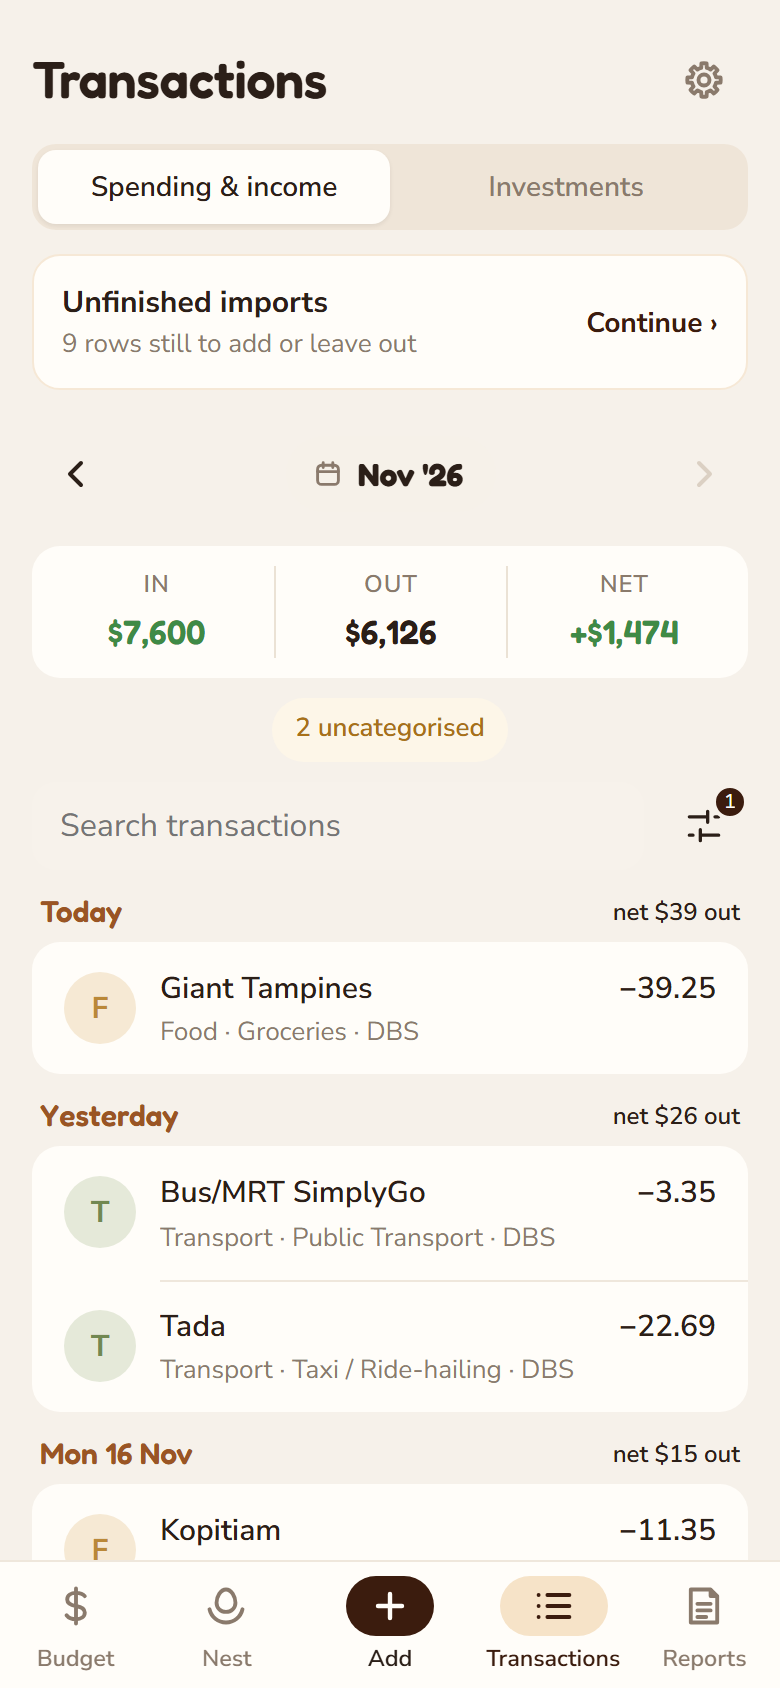
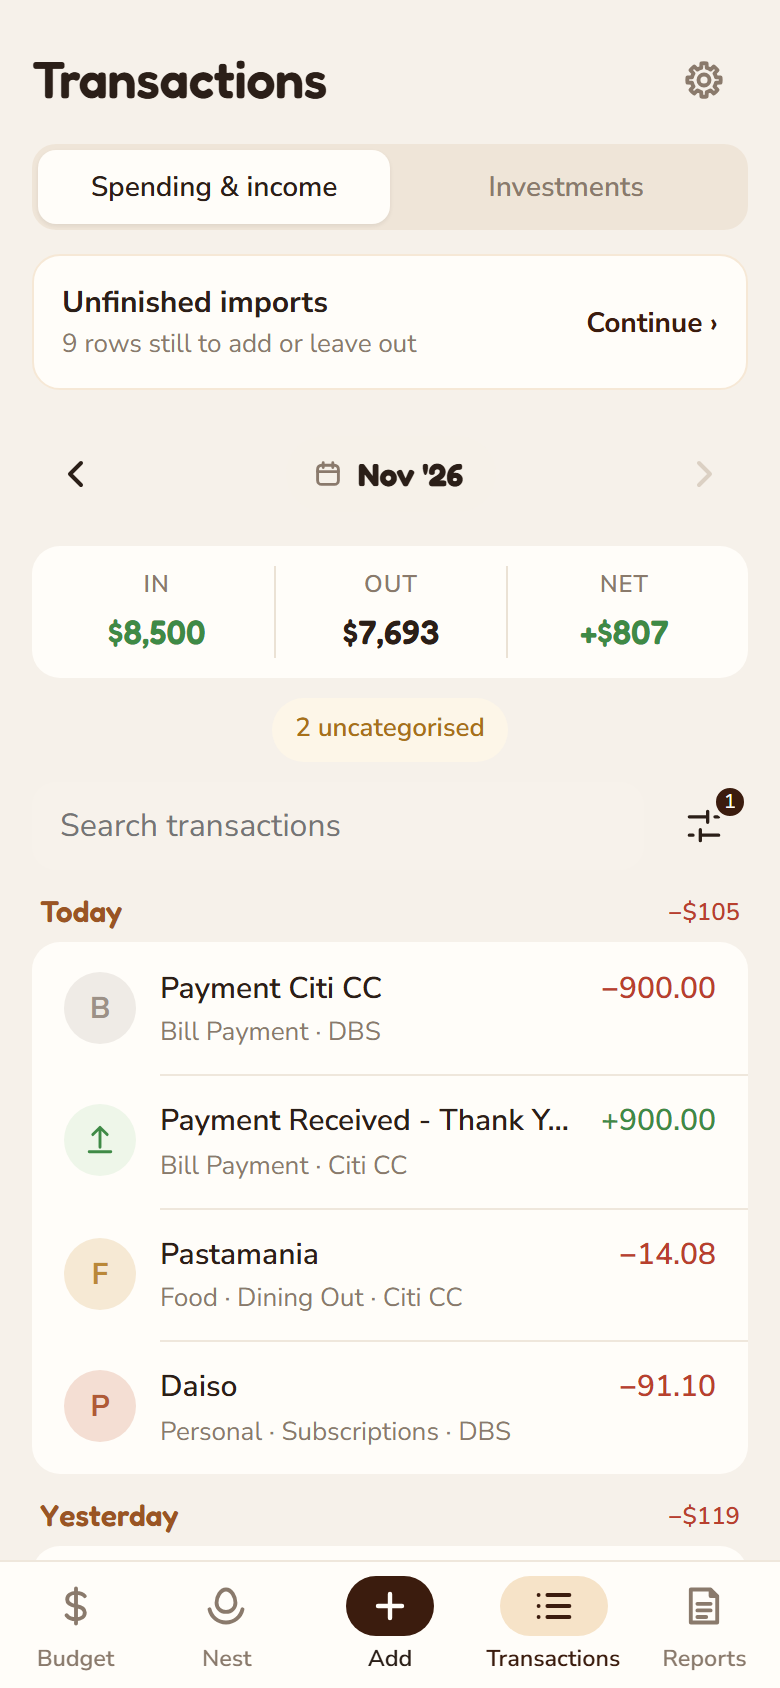
Themes, coloured Transactions amounts, new screenshots, download links to 0.1.229

diff --git a/guide-android.html b/guide-android.html
@@ -103,7 +103,7 @@
       <li><b>Budget</b>: Ready to place, with your money age under it, then your <b>Groups</b> in one card (with the month's total left beside the heading): each group with what's left and a line like <b>$1,540 spent of $3,400</b> with a thin bar in the group's colour (it turns red when a group is over). Groups whose money goes to your own savings, investment, insurance or CPF accounts say <b>$900 saved · $500 to go</b> instead, because that money is still yours. <b>Show empty categories</b> sits under the card. To change the order, hold a group until the phone buzzes, then drag it; in a group's summary, hold a category to move it within the group. Looking back at what you placed against what you spent, month by month, is <b>Placed vs Spent</b> on the desktop. Tap a group for its summary and its categories, each with what it spent and what's left; tap a category there to change what's placed or move money. A pooled group's sheet also lists what was spent in each category. A category with a savings goal shows its stage (<b>Warming · saving $1,350 of $3,000</b>); its sheet has the goal, <b>Place</b> for this month and <b>Change goal</b>, and <b>Set a savings goal</b> on any category. <b>Savings goals first</b> lists every goal at the top of Budget; tap one to open it. Swipe the month bar left or right to change month, or tap the month to jump with the month and year wheels.</li>
       <li><b>Nest</b>: your net worth and how it changed (under it, when the prices are from, and <b>Refresh</b> to fetch new ones), then a card for each reason it changed, in the same order (tap a reason under your net worth to jump to its card): <b>Kept From What Came In</b>: what came in less what went out, the same savings rate as Reports (<b>How it's worked out</b> under it shows the sum); <b>Investments grew on their own</b>, from what your broker accounts held at the start, plus what you put in, to today, with your biggest holdings, <b>All holdings and how they did</b> and <b>Count my eggs</b>; and <b>CPF added on its own</b>, split into your pay, interest, your home and the rest. Under <b>Where It Sits</b>, each group (<b>Cash</b>, <b>Savings &amp; Investments</b>, <b>What You Owe</b>) is one line with its total, its change and how many accounts it has; tap a group to open it, and tap again to fold it. Anything that opens right there points down or says <b>Show</b>; places that take you to another page sit together at the end of a group or an account, each with a ›. <b>Change these accounts in Settings</b> at the end of a group goes to where accounts are set up. A credit card left owing after its bill says <b>Carried since</b> the month it started. The phone remembers which groups you leave open. Inside, each account is one line; a second line shows only when something needs you, like a count that's due or a debt's terms. Tap an account for its change over the period, what it holds (holdings at today's prices, cash, and what you put in, one line each), its last 12 months, and its settings. Closed accounts with nothing left in them aren't shown. Under your net worth, <b>things to check</b> shows only when some money isn't counted: a card or bank whose transactions aren't in your Nest, a transfer that went nowhere, card bills missing from a card, a closed account with money left (not a closed investment account whose trades sold everything: what didn't come back is its gain or loss), or a bank, savings or cash account that went below zero, open or closed (money came in that isn't recorded, most often interest). Tap it for the list; each has its fix (<b>Add it as interest</b> adds one Interest row for how far below it went; <b>It was wrong from the start</b> raises its starting balance; <b>It really was overdrawn</b> unflags it, listed under <b>Your choices</b> with <b>Check it again</b>; <b>Set up as a credit card</b> asks what you owe on it today; <b>It's a bank account</b> asks its balance today; <b>Don't keep a balance for it</b> leaves it out on purpose, and <b>Track it again</b> undoes that). <b>How they did and what you hold</b> opens your investments; under today's figure it says when the prices are from, and <b>Refresh</b> fetches new ones. After those cards, groups of accounts you made on the computer show under <b>Your Groups</b>, each with its worth, what you put in and what grew on its own; tap one for its chart and figures.</li>
       <li><b>Add</b>, the round button in the middle: log <b>Spending or income</b>, an <b>Investment</b> or <b>Crypto</b> (both open <b>Add an investment</b>, for shares, funds and coins alike: pick a tab, <b>Trade</b>, <b>Earn</b>, <b>Transfer</b> or <b>Adjust</b>, then what happened from the line of words under it, like <b>Bought · Sold · Swap · Option · Fee</b>. That day's close fills in; in a <b>Swap</b> type any two of the amounts and the rate and the third is worked out. For <b>Earn › Cash</b>, tap <b>Paid on</b>: <b>What Paid You?</b> lists what you hold there, grouped by how it will be saved (Dividend, Bond coupon, Interest, Bonus or promotion), and the box shows <b>Saved as</b>. <b>Add</b> stays at the bottom, with <b>How it counts</b> in one line above it, such as <b>Paid US$1,800 for 10 AAPL</b>; <b>See all</b> shows every figure), or <b>Import a statement</b> (see <a href="#import">step 6</a>).</li>
-      <li><b>Transactions</b>: this month's <b>In</b>, <b>Out</b> and <b>Net</b> side by side, then the spending and income, grouped by day with each day's total (like <b>$85 spent</b>); the switch at the top shows your <b>Investments</b> trades instead. Tap a row to edit or split it. Swipe the month bar to see another month; each month loads as you reach it, so the tab opens quickly however many years you've kept. <b>All time</b> on the month picker shows every month at once.</li>
+      <li><b>Transactions</b>: this month's <b>In</b>, <b>Out</b> and <b>Net</b> side by side, then the spending and income, grouped by day with each day's net (like <b>−$85</b>); money out is red and money in is green; the switch at the top shows your <b>Investments</b> trades instead. Tap a row to edit or split it. Swipe the month bar to see another month; each month loads as you reach it, so the tab opens quickly however many years you've kept. <b>All time</b> on the month picker shows every month at once.</li>
       <li><b>Reports</b>: <b>This Month</b> leads with <b>Spent and Kept</b>: of what came in, what you spent and what you kept, with kept split into <b>Moved into your nest</b> and <b>Stayed in cash accounts</b> (money in categories kept out of Spent shows as <b>Other money out</b>), and how that compares with what you usually keep. The computer's Reports Summary says the same figures in the same words. Then the spending card with its <b>Spent · Left</b> switch: what you've spent so far against your usual, or what's left to spend and about how much a day. Then <b>Where It Went</b> (biggest category first, each against its usual), <b>Where Your Savings Went</b> and <b>Out of the Ordinary</b>: new payees and bills bigger than their usual, with why each is there. <b>Trends</b> leads with <b>Spent and Kept, Month by Month</b> (the share kept above each month), then <b>The Months in Figures</b> (came in, spent and kept for each month, and a month on average), <b>So Far This Year</b>, your usual month, each category's last months (with only this month so far, it shows this month "so far"), and <b>How Old Your Money Is</b>: your money age, and again counting savings as still yours. Reports counts transactions up to today. Balance adjustments from Count my eggs aren't spending: Spent and kept says how much there was this month on its own line, with <b>See them</b>. Comparisons say what changed, for example <b>Spent $4,212 more than usual by this point</b> (red) or <b>Spent $1,300 less than usual</b> (green); a category where refunds beat spending shows as money <b>back</b>.</li>
     </ul>
     <figure class="phone"><img src="assets/img/phone-reports-left.png" alt="Reports on the phone, leading with what's left to spend" width="390" height="844" loading="lazy"><figcaption>Reports, set to Left: what's left this month and about how much a day.</figcaption></figure>
@@ -138,6 +138,8 @@
       <li><b>Reports Opens On</b>: This month, or the tab you used last.</li>
       <li><b>Sync</b>: whether the phone is <b>Up to date</b> (and when it last checked), the <b>Last change</b> and which device made it, and the folder your data lives in (for example <i>Google Drive › Ownbook</i>). The app checks the folder when you open it and every 15 seconds while it's open; <b>Check now</b> does it straight away. <b>Sync details</b> lists the last few times newer data came in: when it was saved, and how long it took to arrive and what it waited on (the folder not passing it on yet, or the app's next check). An update that came in when you opened the app just says so. <b>Use a different folder</b>, also in Sync details, switches folders without closing the app (it's read first, never written over).</li>
     </ul>
+
+    <p><b>Themes</b>: open Settings (the gear) and pick one under <b>Themes</b>. <b>Match this phone</b> is light, and turns to Cocoa night (warm browns) when your phone is set to dark mode. <b>Light</b> stays light, and <b>Cocoa night</b> stays dark.</p>
 
     <h2 id="both">8. Using the phone and the computer</h2>
     <p>Use one device at a time, and let the files sync in between:</p>

diff --git a/guide-desktop.html b/guide-desktop.html
@@ -88,10 +88,12 @@
       <li><b>Budget</b>: <b>Place Money</b> (this month's plan) and <b>Placed vs Spent</b>.</li>
       <li><b>Transactions</b>: everything you spent and received, with a switch for <b>Investments</b> (your trades) and the <b>Import</b> button for bank statements.</li>
       <li><b>Nest</b>: what you own and owe, in four tabs: <b>Overview</b>, <b>Accounts</b>, <b>Investments</b> and <b>Debts</b>.</li>
-      <li><b>Reports</b>, then <b>Settings</b> at the bottom, in tabs: <b>Your Book</b> (accounts, home currency, categories), <b>Imports</b>, <b>Data &amp; Backups</b> and <b>App</b> (updates).</li>
+      <li><b>Reports</b>, then <b>Settings</b> at the bottom, in tabs: <b>Your Book</b> (accounts, home currency, categories), <b>Imports</b>, <b>Data &amp; Backups</b> and <b>App</b> (updates, themes).</li>
     </ul>
     <p>Everywhere in the app, a button does something on the page you're on; a brown underlined link takes you to another page; a rounded label only says what something is, like <b>Warming</b> or <b>Count due</b>.</p>
     <p>Press <kbd>Ctrl</kbd> <kbd>K</kbd> (or click the search box at the top) to jump to any page by typing its name. The top bar also shows when you last backed up, and says <b>Update available</b> when there's a new version.</p>
+
+    <p><b>Themes</b>: pick one in <b>Settings › App › Themes</b>. <b>Match this computer</b> is light, and turns dark when Windows is set to dark mode (Settings › Personalization › Colors). <b>Light</b> stays light. <b>Cocoa night</b> (warm browns) stays dark, and so does <b>Charcoal</b> (neutral greys), with Pro. When it follows Windows into dark, Match this computer uses Cocoa night, or Charcoal if that's the dark theme you picked last.</p>
 
     <p><b>Settings › Home Currency</b> is the currency every total is shown in (the one picked when the book was started). Pick one from the list and the app says what happens before anything changes: investments, broker cash and net worth are converted at today's rate; bank transactions, budgets and goals keep their numbers and only change sign ($1,200 rent shows as £1,200). A backup is made first, and you can change it back. Other currencies are always marked so they can't be mistaken for it: US$, S$, HK$, or the code (EUR, JPY). Yen, won, rupiah, dong, Chilean pesos and forints show no cents.</p>
 
@@ -178,7 +180,7 @@
     <ul>
       <li>Transactions opens on the newest month, like the phone. The month button at the top (such as <b>Oct '26 ▾</b>) opens a small calendar of months, with <b>All Months</b> under it; beside it are the month's In, Out and Net and how many transactions match. The heading stays in view while the rows scroll.</li>
       <li>Under it are the search box and one chip for each filter: <b>Category</b>, <b>Account</b> and <b>Type</b>. Choose a chip to pick from its list; the Category list has each category's sub-categories under it, and you can type to find one. A chip that's set says what it picked, such as <b>Account: Citi CC ×</b>; its × takes it off. A chip such as <b>2 uncategorised</b> shows only the rows that still need a category. <b>Clear filters</b> takes them all off and keeps the month.</li>
-      <li>The Category column says the category and sub-category together, such as <b>Food › Dining Out</b>. Editing a row shows a box for each. Each day has a short heading with its date and net. Once a filter picks a category and sub-category, the column steps aside because the chip already says it, and comes back while you edit a row. <b>Columns</b> brings Sub-Category back as a column of its own; drag a column's heading to move it. Your search, filters and sort stay as they were after <b>Save changes</b>.</li>
+      <li>The Category column says the category and sub-category together, such as <b>Food › Dining Out</b>. Editing a row shows a box for each. Each day has a short heading with its date and net, like <b>−$180</b>. Money out is red and money in is green, on every row and each day. Once a filter picks a category and sub-category, the column steps aside because the chip already says it, and comes back while you edit a row. <b>Columns</b> brings Sub-Category back as a column of its own; drag a column's heading to move it. Your search, filters and sort stay as they were after <b>Save changes</b>.</li>
       <li>Edit any row in place (date, category, description, amount and account; a split line's date and amounts change through <b>Edit split</b>; a row moved to another month stays in view until you commit), or <b>+ Add a transaction</b> for cash spends: a short form opens above the list (date, description, amount, account, then the category, or <b>Transfer</b> and the account it went to). The date starts in the month you're looking at. <b>Add</b> puts it with your changes and keeps the form open for the next one, with the same date and account; <b>Done</b> closes it. <b>Save changes</b> saves them and keeps you where you were, with a short <b>Saved.</b> note (the investment trades list does the same). Enter adds, Esc closes the form. If a save can't go through, the app says why. If a row you changed was changed in another window or on the phone after this page opened, nothing is saved and the app asks you to reload first.</li>
       <li><b>Split</b> one payment across categories (a supermarket bill that was half groceries, half household).</li>
     </ul>

diff --git a/philosophy.html b/philosophy.html
@@ -72,7 +72,7 @@
 
     <h2 id="v4v">Value for value</h2>
     <p>Ownbook is free to download and use for everyday budgeting: placing money, transactions, importing statements, accounts, your Nest and the monthly report. No ads, and your data is never locked: you can always open, export and back it up.</p>
-    <p>A few advanced tools are <b>Ownbook Pro</b>: planning (when you could stop working, how well the plan holds up, paying off debts, where your CPF is heading), reports over any date range, placed vs spent, long-range goals, investment returns, the cost basis audit and broker imports. Each one is clearly marked, and you can try them all free for 14 days.</p>
+    <p>A few advanced tools are <b>Ownbook Pro</b>: planning (when you could stop working, how well the plan holds up, paying off debts, where your CPF is heading), reports over any date range, placed vs spent, long-range goals, investment returns, the cost basis audit, broker imports and the Charcoal dark look on the computer. Each one is clearly marked, and you can try them all free for 14 days.</p>
     <p>If it gives you something of value, more clarity or less stress or one good decision, you're invited to give back what it's worth to you. Money keeps the work going, but so does time and talent: reporting a bug, suggesting a bank to support, or telling a friend.</p>
     <p>This only works if it's genuinely voluntary, so it will stay that way. <a href="support.html">Ways to give back</a>.</p>
 

diff --git a/download.html b/download.html
@@ -65,8 +65,8 @@
             <li>Windows 10 or 11, 64-bit</li>
             <li>A single file, no installer. It updates itself</li>
           </ul>
-          <a class="btn btn-primary" href="https://github.com/truewt88/personal-finance-releases/releases/download/v0.1.226/Ownbook-Free-0.1.226.exe">Download for Windows</a>
-          <p class="muted" style="font-size:.88rem">Version 0.1.226. Windows may say <b>"Windows protected your PC"</b> because the app is new: click <b>More info</b>, then <b>Run anyway</b>. How to set it up: the <a href="guide-desktop.html">desktop guide</a>.</p>
+          <a class="btn btn-primary" href="https://github.com/truewt88/personal-finance-releases/releases/download/v0.1.229/Ownbook-Free-0.1.229.exe">Download for Windows</a>
+          <p class="muted" style="font-size:.88rem">Version 0.1.229. Windows may say <b>"Windows protected your PC"</b> because the app is new: click <b>More info</b>, then <b>Run anyway</b>. How to set it up: the <a href="guide-desktop.html">desktop guide</a>.</p>
         </div>
       </div>
       <p class="muted" id="notify" style="margin-top:28px">Found something wrong or confusing? Tell us at <b>support@useownbook.com</b>. Want to hear once when it's on the Microsoft Store and open to everyone on Google Play? Email the same address and we'll tell you once, then forget your address. Our reply may land in your spam folder at first, so check there too. Mac and iPhone versions aren't available yet.</p>

diff --git a/features.html b/features.html
@@ -180,6 +180,7 @@
         <li><h3>Move between months</h3><p>Swipe the month bar to move between months; tap it to jump with month and year wheels.</p></li>
         <li><h3>Import a statement</h3><p>Choose a CSV, or share one to Ownbook from your bank's app. Tap a row to give it a category; unfinished imports carry over to the computer and back.</p></li>
         <li><h3>Opens where you want</h3><p>Choose the screen it opens on: Budget, Reports, or wherever you left off.</p></li>
+        <li><h3>Themes</h3><p>Ownbook matches the light or dark mode of your phone or computer, or you pick <b>Light</b> or <b>Cocoa night</b>, warm browns, in Settings › Themes. On the computer, Pro adds <b>Charcoal</b>, a neutral grey.</p></li>
         <li><h3>Works offline</h3><p>Everything works without a connection; prices refresh when you're connected.</p></li>
         <li><h3>One folder, synced safely</h3><p>Reads the same data folder as the desktop through your own cloud sync. It never overwrites newer changes; a clash keeps both copies for you to choose.</p></li>
       </ul>
